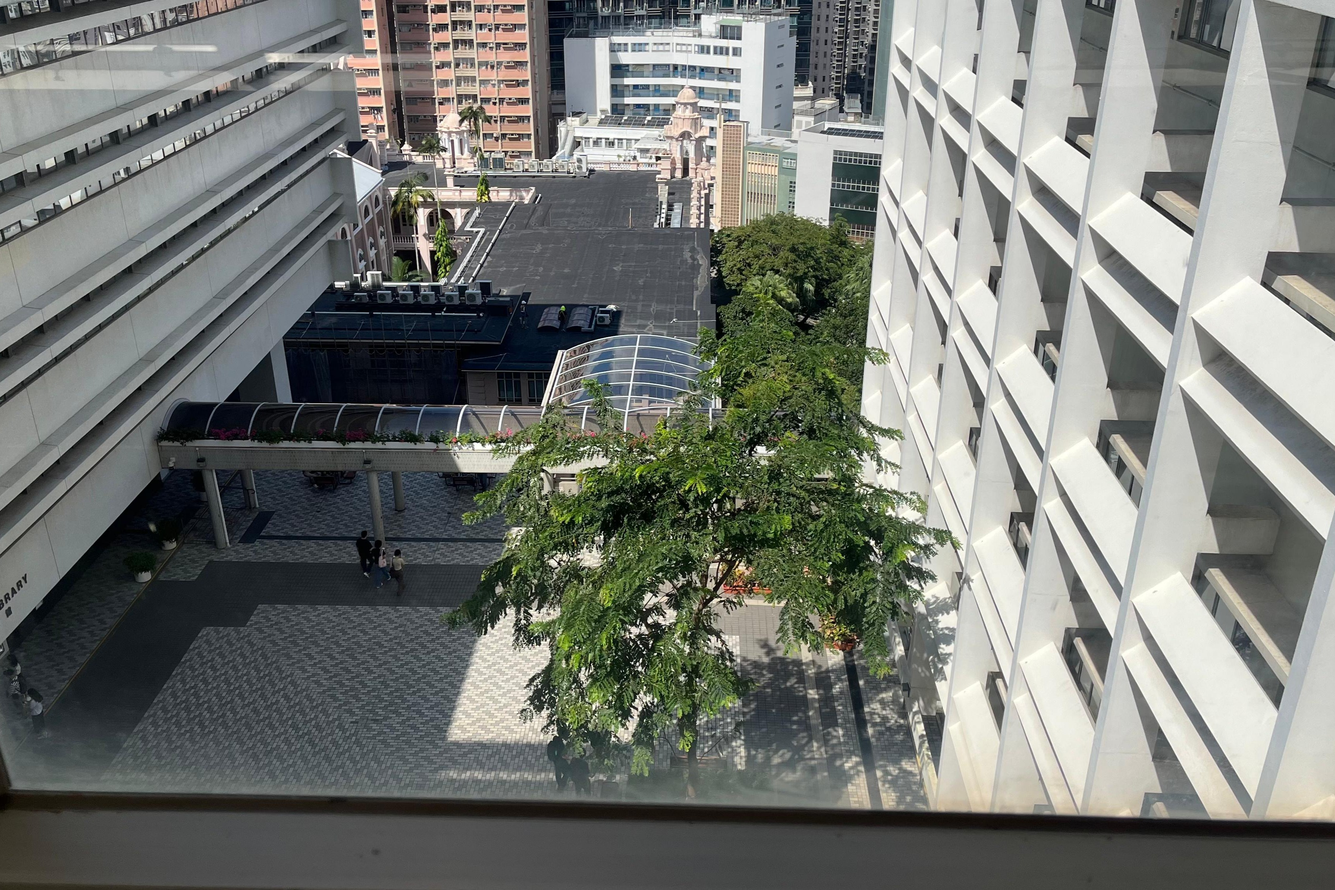
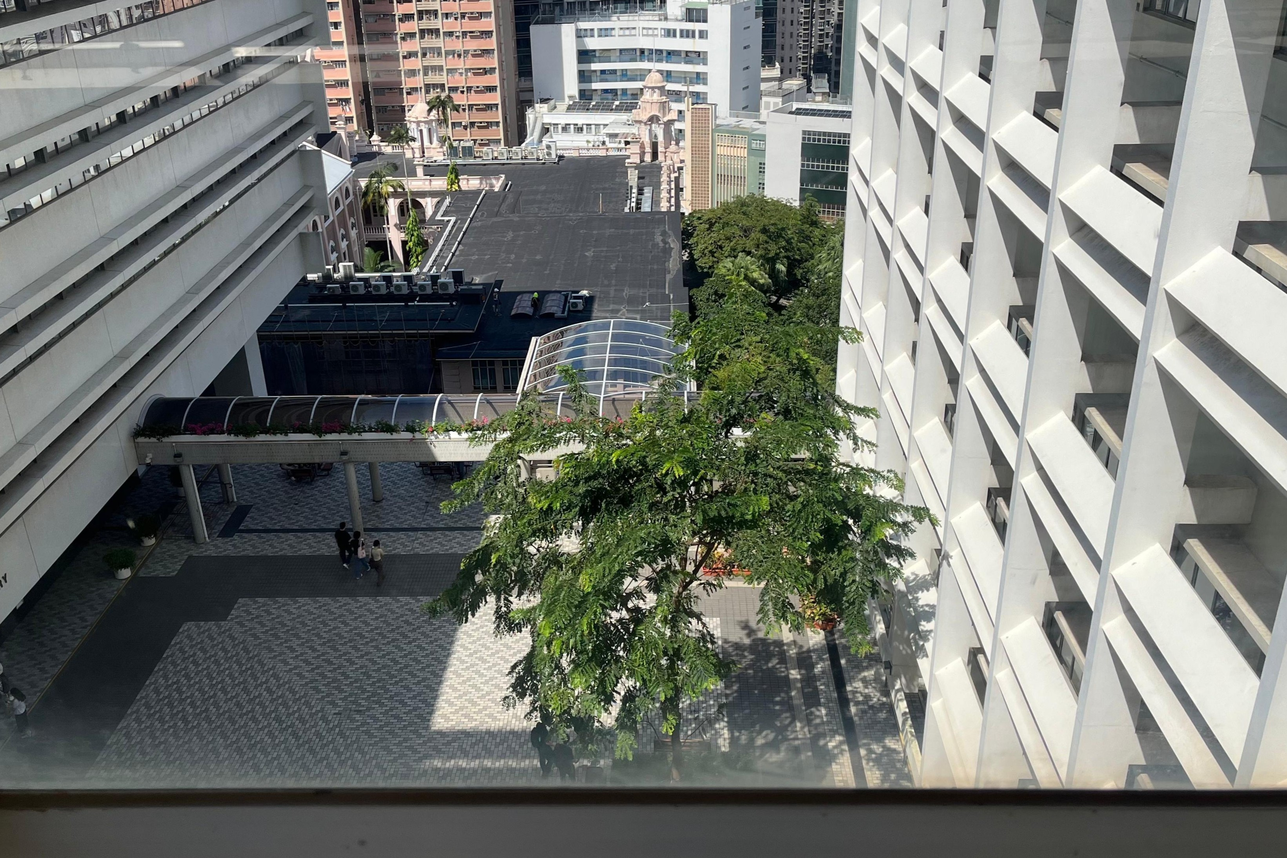
.

diff --git a/style.css b/style.css
@@ -169,6 +169,8 @@ body {
   flex-direction: column;
   gap: 15px;
   height: 100%;
+  justify-content: center;
+  align-items: center;
 }
 
 .checkpoint-header {
@@ -236,9 +238,10 @@ body {
 }
 
 .checkpoint-images .image-placeholder {
-  flex: 1;
-  min-height: 140px;
-  max-height: 320px;
+  flex: 0 0 auto;
+  width: 100%;
+  max-width: 450px;
+  aspect-ratio: 3 / 2;
   background: rgba(0, 0, 0, 0.05);
   border-radius: 8px;
   overflow: hidden;
@@ -263,24 +266,24 @@ body {
   padding: 15px;
 }
 
-/* Single image for Knowles Building */
+/* Single image for Knowles Building - vertical 3:4 */
 .single-image .image-placeholder {
-  min-height: 280px;
-  max-height: 320px;
+  aspect-ratio: 3 / 4;
+  max-width: 350px;
+  flex: 0 0 auto;
 }
 
-/* Smaller single image for Time Tunnel */
+/* Smaller single image for Time Tunnel - vertical 3:4 */
 .single-image-small .image-placeholder {
-  min-height: 200px;
-  max-height: 500px;
-  max-width: 400px;
+  aspect-ratio: 3 / 4;
+  max-width: 350px;
+  flex: 0 0 auto;
 }
 
-/* Very small images for Haunted Bridge (vertical images) */
+/* Very small images for Haunted Bridge (horizontal 3:2) */
 .vertical-images .image-placeholder {
-  min-height: 120px;
-  max-height: 160px;
-  max-width: 280px;
+  aspect-ratio: 3 / 2;
+  max-width: 380px;
 }
 
 /* Tour Details Section */

diff --git a/index.html b/index.html
@@ -352,7 +352,7 @@
         <div class="checkpoint-images slide-in single-image">
           <div class="image-placeholder">
             <img
-              src="img/knowles-building-1.jpg"
+              src="img/knowles.JPG"
               alt="Knowles Building"
               onerror="this.parentElement.innerHTML='<div class=\'placeholder-text\'>Image: Knowles Building</div>'"
             />
